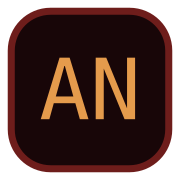
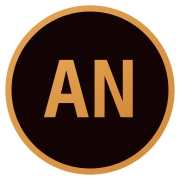
improve

Changed region(s): [[0.0278, 0.0278, 0.9722, 0.9722], [0.4167, 0.3056, 0.75, 0.6667], [0.2222, 0.3056, 0.4722, 0.6667]]

diff --git a/odd/tasks.md b/odd/tasks.md
@@ -1,12 +1,3 @@
 # Tareas del Proyecto (ODD)
 
-Skills taste-skills SKILL.md (SOLO MODIFICAR LO INDICADO Y NADA MAS): Mejorar el responsive general del banner principal:
-[x] En ciertos tamaños de pantalla pequeños los contenedores con esquinas alternadas marcadas se les rompe uno de los angulos de las esquinas, refinalo haciendolo mas robusto.
-
-[x] Despues de 530px de pantalla el contenedor de la foto deberia adaptarse al ancho.
-
-[x] Despues de 640px de pantalla mi nombre, titulo, descripcion y botones deberia alinearse al medio hasta alcanzar los 1024px donde queda el diseño final.
-
-[x] Quiero que el titulo "Senior Software...." este debajo del nombre.
-
-[x] Ajusta los colores del script de generacion de assets og-default para que coincida mejor los colores. (No cambies la estructura y solo ajusta los textos que sean necesarios y convenientes). (Tambien en el generador dinamico de og-default de cada ruta en caso de haberlo)
+[x] Mejora el favicon en todas las resoluciones necesarias para maximo SEO y buena presencia en resultados de busqueda: El favicon actual tiene bordes que se cortan en los resultados de busqueda, por lo cual quiero un favicon con mis iniciales, que siga el estilo de diseño de la pagina, colores y tipografia, que siga las mejores practicas para un favicon que se vea bien en pestañas de navegador, resultados de busqueda y en todos los lugares. Ese favicon con mis iniciales "AN" sera mi logo personal, por lo cual tambien deberias poder integrarlo perfectamente en el menu/barra superior de la pagina (el mismo codigo para que no discrepen)
